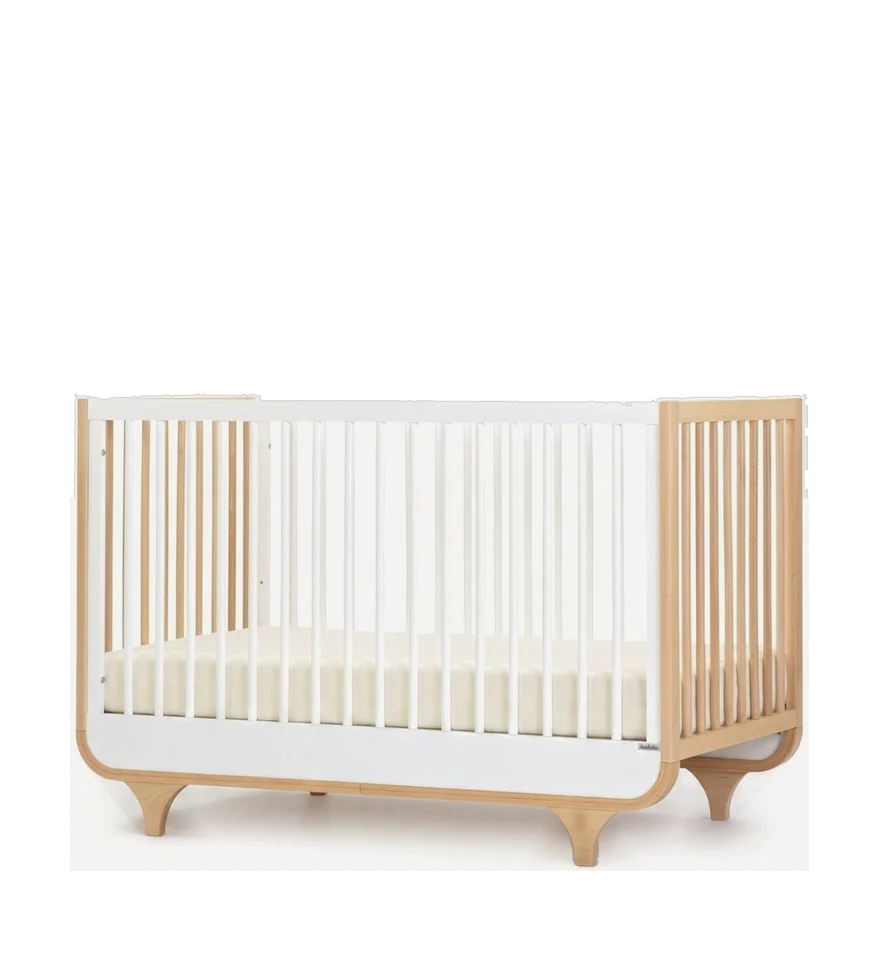
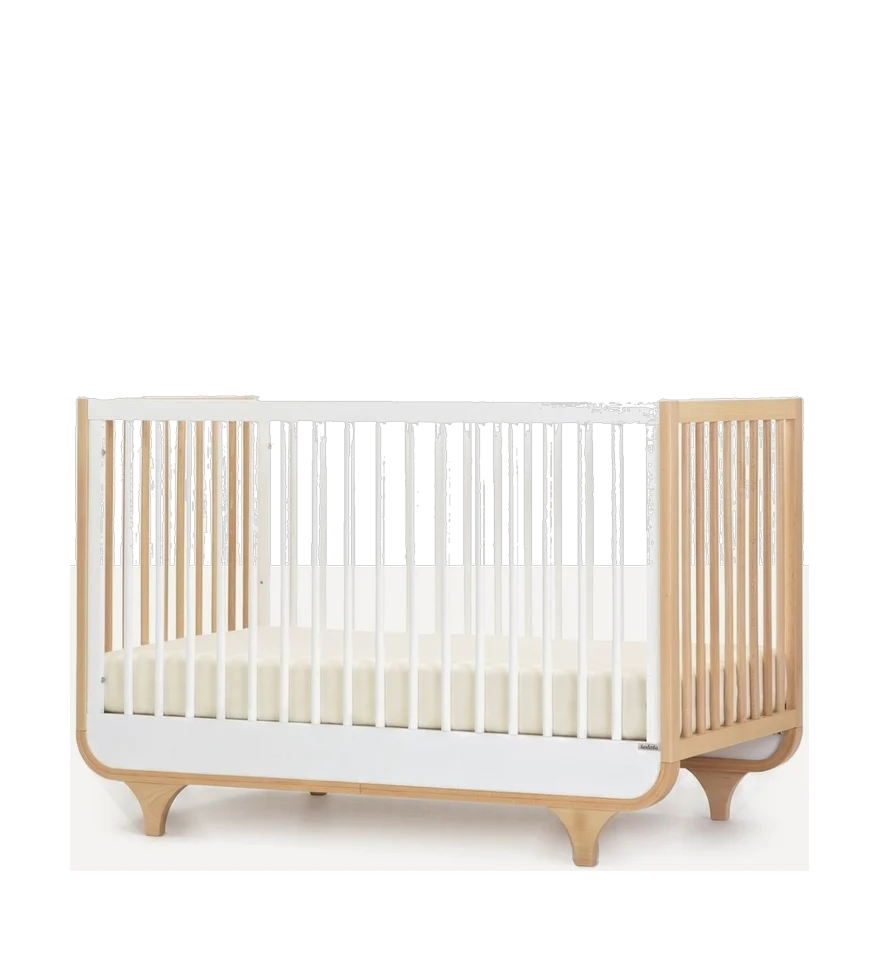
V8: Shop the look slides again; best sellers switch; words through the slats
- Fix: the films row reused the carousel's 'track' variable, so the
  Shop the look arrows and timer moved the wrong element
- Shop the look a little taller; less space under the manifesto
- Best sellers: the pill switches Best sellers / Categories; four fixed
  picks (two cribs, two dressers), no inner filter
- Crib cutouts are see-through between the slats in the word band, and
  the word sits lower so it shows through them

Claude-Session: https://claude.ai/code/session_01PD4gmk2HnABopCJ5Uw14ym

Changed region(s): [[0.8898, 0.4029, 0.9205, 0.4959], [0.1841, 0.4959, 0.2455, 0.5579], [0.7977, 0.4959, 0.8284, 0.5579]]

diff --git a/8/js/home.js b/8/js/home.js
@@ -4,7 +4,7 @@
   var V8 = window.V8, D = window.DD, P = V8.P, $ = V8.$, $$ = V8.$$, esc = V8.esc, money = V8.money, svg = V8.svg;
 
   var TOTAL_REVIEWS = V8.list("crib").reduce(function (a, p) { return a + (p.reviews || 0); }, 0);
-  var TABS = { cribs: ["soho", "bliss", "lala", "spirit"], dressers: ["soho5", "merry", "bliss6", "cp"], kids: ["muse", "shelf", "tower", "fun"] };
+  var BEST = ["soho", "bliss", "soho5", "bliss6"]; // two cribs, two dressers
   var LOGOS = [["brand-1", "Babylist"], ["brand-2", "Target"], ["brand-3", "Amazon"], ["brand-4", "Wayfair"], ["brand-5", "Albee Baby"], ["brand-6", "Modern Nursery"], ["brand-7", "Macklem's"]];
   var CERTS = [
     ["certs-bg", "55% 45%", "Clean air", "cert-gg", "GREENGUARD Gold", "Tested for more than 10,000 chemicals and VOCs, so the nursery air stays clean."],
@@ -37,7 +37,6 @@
   var STAGES = [["stage-1", "62% 50%", "Newborn", "A safe space for all their first moments.", "Crib · included"], ["stage-2", "60% 50%", "Toddler", "One side comes down. Independence goes up.", "Conversion kit · $120"], ["stage-3", "52% 50%", "Day bed", "The crib years end. Their bed stays.", "Same kit · nothing extra"]];
 
   var CATS = [["cribs", "Cribs", "room-soho-brownstone.jpg", "crib"], ["dressers", "Dressers", "s-soho5.jpg", "dresser"], ["kids", "Toddler &amp; kids", "stl-kids.jpg", "kids"], ["sets", "Nursery sets", "mom-dr-soho.jpg", null]];
-  function tabCards(key) { return TABS[key].map(function (id, i) { return V8.card(P[id], { d: i * .06 }); }).join(""); }
 
   V8.pages.home = function () {
     var soho = P.soho, soho5 = P.soho5, setSub = soho.finishes[0].price + soho5.finishes[0].price, setTot = setSub * .85;
@@ -56,13 +55,12 @@
       // retailers
       '<section class="logos" aria-label="Also sold at"><div class="logos-row">' + [0, 1].map(function (k) { return LOGOS.map(function (l) { return '<img src="assets/' + l[0] + '.png" alt="' + (k ? "" : l[1]) + '"' + (k ? ' aria-hidden="true"' : "") + ' loading="lazy">'; }).join(""); }).join("") + "</div></section>" +
       // manifesto
-      '<section class="sec"><div class="wrap mani"><div><h2 id="mani">A room without a <em>crib</em> is not a <em>nursery</em>, and a nursery without <em>you</em> isn’t your child’s <span class="nowrap"><em>home</em>.' + V8.doodle("dd-heart-o") + '</span></h2></div><div class="mani-img rv"><img src="assets/nursery.webp" alt="A mother-to-be playing records on the floor of her nursery, a natural crib behind her" loading="lazy"></div></div></section>' +
+      '<section class="sec mani-sec"><div class="wrap mani"><div><h2 id="mani">A room without a <em>crib</em> is not a <em>nursery</em>, and a nursery without <em>you</em> isn’t your child’s <span class="nowrap"><em>home</em>.' + V8.doodle("dd-heart-o") + '</span></h2></div><div class="mani-img rv"><img src="assets/nursery.webp" alt="A mother-to-be playing records on the floor of her nursery, a natural crib behind her" loading="lazy"></div></div></section>' +
       // best sellers
       '<section class="sec" id="best" aria-labelledby="best-h"><div class="wrap">' +
-        '<div class="modes" role="tablist" aria-label="Browse by"><button type="button" role="tab" aria-selected="true" aria-controls="bestPanel" data-mode="best" data-h="Our <b>best sellers.</b>">Best sellers</button><button type="button" role="tab" aria-selected="false" aria-controls="catPanel" data-mode="cats" data-h="Shop by <b>category.</b>" tabindex="-1">Shop by category</button></div>' +
         '<div class="sec-head"><h2 class="disp d2 c-orange" id="best-h" aria-live="polite">Our <b>best sellers.</b></h2>' +
-        '<div class="row" style="--s:18px" id="bestCtl"><div class="seg" role="tablist" aria-label="Best sellers by category" id="bestTabs"><button type="button" role="tab" aria-selected="true" data-tab="cribs">Cribs</button><button type="button" role="tab" aria-selected="false" data-tab="dressers">Dressers</button><button type="button" role="tab" aria-selected="false" data-tab="kids">Kids</button></div></div></div>' +
-        '<div id="bestPanel" role="tabpanel"><div class="pgrid" id="bestGrid">' + tabCards("cribs") + "</div></div>" +
+        '<div class="seg modes" role="tablist" aria-label="Browse by"><button type="button" role="tab" aria-selected="true" aria-controls="bestPanel" data-mode="best" data-h="Our <b>best sellers.</b>">Best sellers</button><button type="button" role="tab" aria-selected="false" aria-controls="catPanel" data-mode="cats" data-h="Shop by <b>category.</b>" tabindex="-1">Categories</button></div></div>' +
+        '<div id="bestPanel" role="tabpanel"><div class="pgrid" id="bestGrid">' + BEST.map(function (id, i) { return V8.card(P[id], { d: i * .06 }); }).join("") + "</div></div>" +
         '<div id="catPanel" role="tabpanel" hidden><div class="pgrid">' + CATS.map(function (c) { var ps = c[3] ? V8.list(c[3]) : null; return '<a class="ccard" href="#/' + c[0] + '"><span class="ccard-im"><img src="../img/' + c[2] + '" alt="" loading="lazy"></span><span class="ccard-body"><span class="ccard-kick">' + (ps ? ps.length + (ps.length === 1 ? " piece" : " pieces") : "Crib + dresser") + '</span><b class="ccard-name">' + c[1] + '</b><span class="ccard-sub">' + (ps ? "From " + money(Math.min.apply(null, ps.map(V8.minPrice))) : "15% off both") + ' <span aria-hidden="true">→</span></span></span></a>'; }).join("") + "</div></div>" +
       "</div></section>" +
       // promises
@@ -155,17 +153,10 @@
     addEventListener("scroll", lightWords, { passive: true }); lightWords();
     V8.onLeave(function () { removeEventListener("scroll", lightWords); });
 
-    // best sellers tabs
-    var tabs = $("#bestTabs", root), grid = $("#bestGrid", root);
-    var tabBtns = $$("[role=tab]", tabs);
-    function pick(b) { tabBtns.forEach(function (t) { var on = t === b; t.setAttribute("aria-selected", on); t.tabIndex = on ? 0 : -1; }); grid.innerHTML = tabCards(b.dataset.tab); V8.reveal(grid); }
-    tabBtns.forEach(function (b, i) { b.tabIndex = i ? -1 : 0; b.addEventListener("click", function () { pick(b); }); b.addEventListener("keydown", function (e) { if (e.key === "ArrowRight" || e.key === "ArrowLeft") { e.preventDefault(); var n = tabBtns[(i + (e.key === "ArrowRight" ? 1 : tabBtns.length - 1)) % tabBtns.length]; n.focus(); pick(n); } }); });
-
     // the section switches between best sellers and categories
-    var modes = $$(".modes [role=tab]", root), bestCtl = $("#bestCtl", root);
+    var modes = $$(".modes [role=tab]", root);
     function mode(b) {
       modes.forEach(function (t) { var on = t === b; t.setAttribute("aria-selected", on); t.tabIndex = on ? 0 : -1; $("#" + t.getAttribute("aria-controls"), root).hidden = !on; });
-      bestCtl.hidden = b.dataset.mode !== "best";
       $("#best-h", root).innerHTML = b.dataset.h;
       V8.reveal($("#" + b.getAttribute("aria-controls"), root));
     }
@@ -214,28 +205,28 @@
     ft.addEventListener("click", function () { paused = !paused; playFan(!paused); ft.textContent = paused ? "Play the films" : "Pause the films"; ft.setAttribute("aria-pressed", paused); });
     function countUp() { var el = $("#homesN", root); if (!el || el.dataset.done || reduce) return; el.dataset.done = 1; var t0 = performance.now(); (function st(t) { var k = Math.min(1, (t - t0) / 1500), e = 1 - Math.pow(1 - k, 4); el.textContent = Math.round(10000 * e).toLocaleString("en-US"); if (k < 1) requestAnimationFrame(st); })(t0); }
     V8.onLeave(function () { fio.disconnect(); });
-    var row = $("#hrow", root), track = $("#hrowTrack", root), bar = $("#hrowBar", root), ctl = $("#fanCtl", root);
+    var row = $("#hrow", root), rtrack = $("#hrowTrack", root), bar = $("#hrowBar", root), ctl = $("#fanCtl", root);
     // row films play while on screen; the slot may hold the fan's own film (moved in on unfold)
     var rio = new IntersectionObserver(function (es) { es.forEach(function (e) { var v = $("video", e.target); if (!v) return; if (e.isIntersecting && !row.hidden) { loadVideo(v); v.play().catch(function () {}); } else v.pause(); }); }, { threshold: .6 });
-    $$(".hrow-it.v .ph", track).forEach(function (ph) { rio.observe(ph); });
-    function prog() { var m = track.scrollWidth - track.clientWidth; bar.style.transform = "scaleX(" + (m > 0 ? Math.max(.06, track.scrollLeft / m) : 1) + ")"; }
-    track.addEventListener("scroll", prog, { passive: true });
-    row.addEventListener("click", function (e) { var n = e.target.closest("[data-rv]"); if (n) track.scrollBy({ left: +n.dataset.rv * track.clientWidth * .6, behavior: reduce ? "auto" : "smooth" }); });
-    track.addEventListener("keydown", function (e) { if (e.key === "ArrowRight" || e.key === "ArrowLeft") { e.preventDefault(); track.scrollBy({ left: (e.key === "ArrowRight" ? 1 : -1) * track.clientWidth * .5, behavior: "smooth" }); } });
+    $$(".hrow-it.v .ph", rtrack).forEach(function (ph) { rio.observe(ph); });
+    function prog() { var m = rtrack.scrollWidth - rtrack.clientWidth; bar.style.transform = "scaleX(" + (m > 0 ? Math.max(.06, rtrack.scrollLeft / m) : 1) + ")"; }
+    rtrack.addEventListener("scroll", prog, { passive: true });
+    row.addEventListener("click", function (e) { var n = e.target.closest("[data-rv]"); if (n) rtrack.scrollBy({ left: +n.dataset.rv * rtrack.clientWidth * .6, behavior: reduce ? "auto" : "smooth" }); });
+    rtrack.addEventListener("keydown", function (e) { if (e.key === "ArrowRight" || e.key === "ArrowLeft") { e.preventDefault(); rtrack.scrollBy({ left: (e.key === "ArrowRight" ? 1 : -1) * rtrack.clientWidth * .5, behavior: "smooth" }); } });
     function unfold(id) {
       // swap the fan for the row and centre the film that was clicked; the row has its own films
       var head = $(".homes-head", root), y0 = head.getBoundingClientRect().top;
       playFan(false);
       fan.hidden = true; ctl.hidden = true; row.hidden = false;
       try { window.scrollBy(0, head.getBoundingClientRect().top - y0); } catch (e) {}
-      var it = $('[data-id="' + id + '"]', track);
-      if (it) { var tr = track.getBoundingClientRect(), ir = it.getBoundingClientRect(); track.scrollLeft += ir.left - tr.left - (tr.width - ir.width) / 2; }
+      var it = $('[data-id="' + id + '"]', rtrack);
+      if (it) { var tr = rtrack.getBoundingClientRect(), ir = it.getBoundingClientRect(); rtrack.scrollLeft += ir.left - tr.left - (tr.width - ir.width) / 2; }
       prog();
       var v = it && $("video", it); if (v) { loadVideo(v); var pp = v.play(); if (pp && pp.catch) pp.catch(function () {}); }
     }
     function fold() {
       var head = $(".homes-head", root), y0 = head.getBoundingClientRect().top;
-      $$("video", track).forEach(function (v) { v.pause(); });
+      $$("video", rtrack).forEach(function (v) { v.pause(); });
       row.hidden = true; fan.hidden = false; ctl.hidden = false;
       try { window.scrollBy(0, head.getBoundingClientRect().top - y0); } catch (e) {}
       fan.classList.remove("in"); void fan.offsetWidth; fan.classList.add("in");

diff --git a/8/css/v8.css b/8/css/v8.css
@@ -204,13 +204,7 @@ main:focus { outline: none; }
 .pcard:hover .pcard-media img { transform: scale(1.025); }
 .pcard-fig { position: relative; }
 /* best sellers / categories switch: the heading is the switch */
-.modes { display: flex; gap: clamp(22px, 2.4vw, 40px); border-bottom: 1px solid var(--line); margin-bottom: clamp(24px, 2.6vw, 40px); }
-.modes [role=tab] { position: relative; padding: 0 0 14px; font-size: 16px; font-weight: 700; letter-spacing: -0.005em; color: var(--ink-2); transition: color var(--t); }
-.modes [role=tab]::after { content: ""; position: absolute; left: 0; right: 0; bottom: -1px; height: 3px; border-radius: 3px; background: var(--orange); transform: scaleX(0); transform-origin: left; transition: transform .35s var(--ease); }
-.modes [role=tab]:hover { color: var(--ink); }
-.modes [role=tab][aria-selected="true"] { color: var(--ink); }
-.modes [role=tab][aria-selected="true"]::after { transform: none; }
-#bestCtl[hidden], #catPanel[hidden], #bestPanel[hidden] { display: none; }
+#catPanel[hidden], #bestPanel[hidden] { display: none; }
 .ccard { position: relative; display: grid; grid-template-rows: auto 1fr; background: var(--paper); }
 .ccard-im { display: block; aspect-ratio: 4 / 4.4; overflow: hidden; }
 .ccard-im img { width: 100%; height: 100%; object-fit: cover; transition: transform .9s var(--ease); }
@@ -226,7 +220,7 @@ main:focus { outline: none; }
 .pcard-media.has-cut { container-type: inline-size; }
 .pcard-media.has-cut img.cut { inset: 0; width: 100%; height: 100%; mix-blend-mode: normal; z-index: 1; }
 .pcard-big { position: absolute; left: 0; right: 0; top: calc(var(--top) * 100%); z-index: 0; text-align: center; font-style: italic; font-weight: 800; font-size: min(27cqi, calc(132cqi / var(--len))); line-height: .78; letter-spacing: -0.05em; color: var(--orange); text-transform: uppercase; pointer-events: none; opacity: 0; transform: translateY(-30%); transition: opacity .35s var(--ease), transform .7s var(--ease); }
-.pcard:hover .pcard-big { opacity: 1; transform: translateY(-74%); }
+.pcard:hover .pcard-big { opacity: 1; transform: translateY(-52%); }
 .pcard-kick { position: absolute; top: clamp(16px, 1.6vw, 26px); left: clamp(14px, 1.6vw, 28px); z-index: 2; font-size: 12px; font-weight: 700; letter-spacing: .12em; text-transform: uppercase; color: var(--ink); pointer-events: none; transition: opacity .3s; }
 .pcard-kick .sale { color: var(--orange-ink); margin-inline-end: 10px; }
 @media (hover: hover) { .pcard:hover .pcard-kick { opacity: 0; } }
@@ -472,7 +466,8 @@ main:focus { outline: none; }
 
 /* promise strip */
 .promise { display: grid; grid-template-columns: repeat(4, minmax(0, 1fr)); gap: var(--gap); }
-#best { padding-bottom: clamp(36px, 3.4vw, 56px); }
+.sec.mani-sec { padding-bottom: calc(var(--sec) * .5); }
+#best { padding-top: calc(var(--sec) * .4); padding-bottom: clamp(36px, 3.4vw, 56px); }
 .sec.promise-sec { padding-top: 0; }
 .promise li { display: grid; grid-template-columns: 44px 1fr; gap: 14px; align-items: center; }
 .promise .pi { width: 44px; height: 44px; border-radius: 50%; background: var(--lime); display: grid; place-items: center; }
@@ -485,7 +480,7 @@ main:focus { outline: none; }
 /* shop the look */
 .stl { position: relative; overflow: hidden; background: var(--paper); }
 .stl-track { display: flex; transition: transform .9s var(--ease); }
-.stl-room { position: relative; flex: 0 0 100%; aspect-ratio: 16 / 6.4; min-height: 460px; max-height: 82vh; container-type: size; }
+.stl-room { position: relative; flex: 0 0 100%; aspect-ratio: 16 / 7.2; min-height: 460px; max-height: 82vh; container-type: size; }
 /* the dots keep the 16:8.2 frame they were placed on; the photo is cover-cropped around the same centre */
 .hots { position: absolute; left: 0; top: 50%; width: 100%; height: calc(100cqw / 1.9512); translate: 0 -50%; z-index: 2; pointer-events: none; }
 .hots .hot { pointer-events: auto; }

diff --git a/8/index.html b/8/index.html
@@ -16,7 +16,7 @@
 <link rel="preconnect" href="https://fonts.googleapis.com">
 <link rel="preconnect" href="https://fonts.gstatic.com" crossorigin>
 <link rel="stylesheet" href="https://fonts.googleapis.com/css2?family=Inter:ital,wght@0,400;0,500;0,600;0,700;0,800;1,500;1,600;1,800&display=swap">
-<link rel="stylesheet" href="css/v8.css?v=98">
+<link rel="stylesheet" href="css/v8.css?v=101">
 <script>document.documentElement.classList.add("js");</script>
 </head>
 <body>
@@ -138,13 +138,13 @@
 <symbol id="dd-star" viewBox="0 0 128 135"><path fill="currentColor" d="M53.1012 12.4843C47.4839 28.2232 44.1749 35.7571 44.1749 41.2466C38.3718 40.7248 34.8594 44.215 30.5778 44.481C17.9808 46.4997 8.00731 49.3216 0 50.7103C2.21217 55.3554 27.9412 64.498 29.2347 78.047C29.3759 79.5255 28.2441 81.1199 26.951 84.1965C20.365 99.8665 15.956 112.433 17.1538 124.667C17.4139 127.324 18.1998 129.241 21.8836 126.392C33.0544 117.752 55.4174 95.4876 67.7451 99.4594C69.3663 99.9817 70.9463 101.059 72.4856 102.374C78.7796 107.748 88.7277 109.268 96.8147 119.061C102.269 125.666 110.469 139.202 111.838 133.725C112.425 131.378 112.069 126.182 110.205 118.658C105.933 101.408 98.6105 76.95 103.735 72.0628C111.276 64.871 132.86 58.624 127.006 55.3858C118.054 50.4343 93.3421 51.8355 86.909 44.9922C84.654 42.5934 82.8094 38.748 78.6191 32.3731C66.2187 13.5075 61.2883 -4.03956 58.1304 0.819493C56.3966 3.48733 54.8218 7.66348 53.1012 12.4843Z"/></symbol>
 </defs></svg>
 
-<script src="js/icons.js?v=98"></script>
-<script src="js/data.js?v=98"></script>
-<script src="js/cuts.js?v=98"></script>
-<script src="js/core.js?v=98"></script>
-<script src="js/home.js?v=98"></script>
-<script src="js/shop.js?v=98"></script>
-<script src="js/pages.js?v=98"></script>
+<script src="js/icons.js?v=101"></script>
+<script src="js/data.js?v=101"></script>
+<script src="js/cuts.js?v=101"></script>
+<script src="js/core.js?v=101"></script>
+<script src="js/home.js?v=101"></script>
+<script src="js/shop.js?v=101"></script>
+<script src="js/pages.js?v=101"></script>
 <script>V8.start();</script>
 </body>
 </html>
